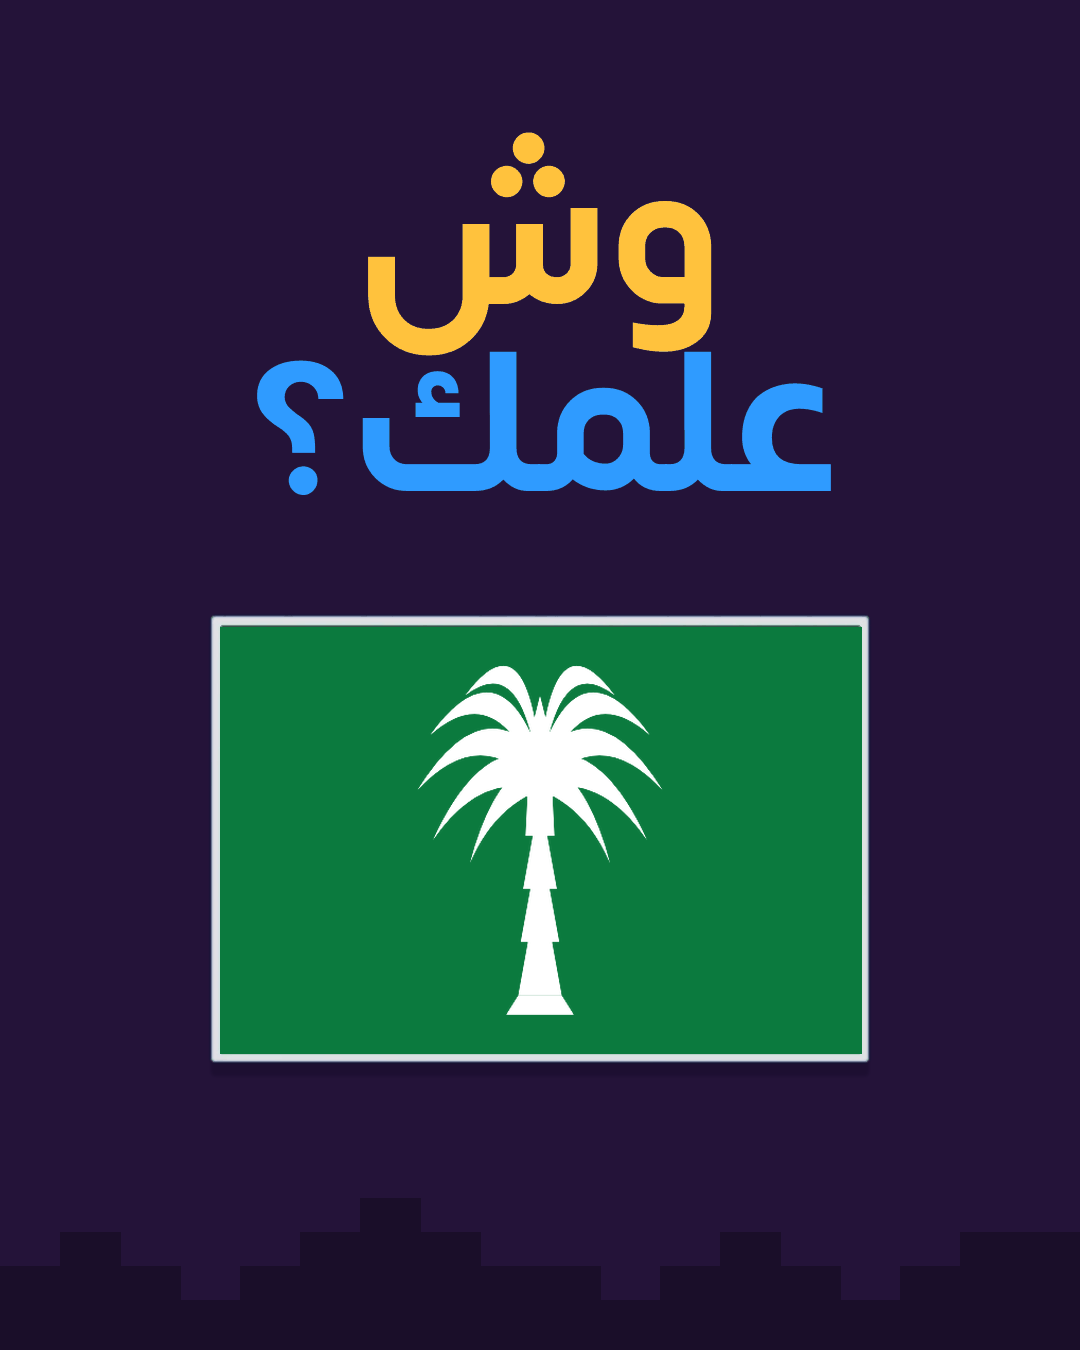
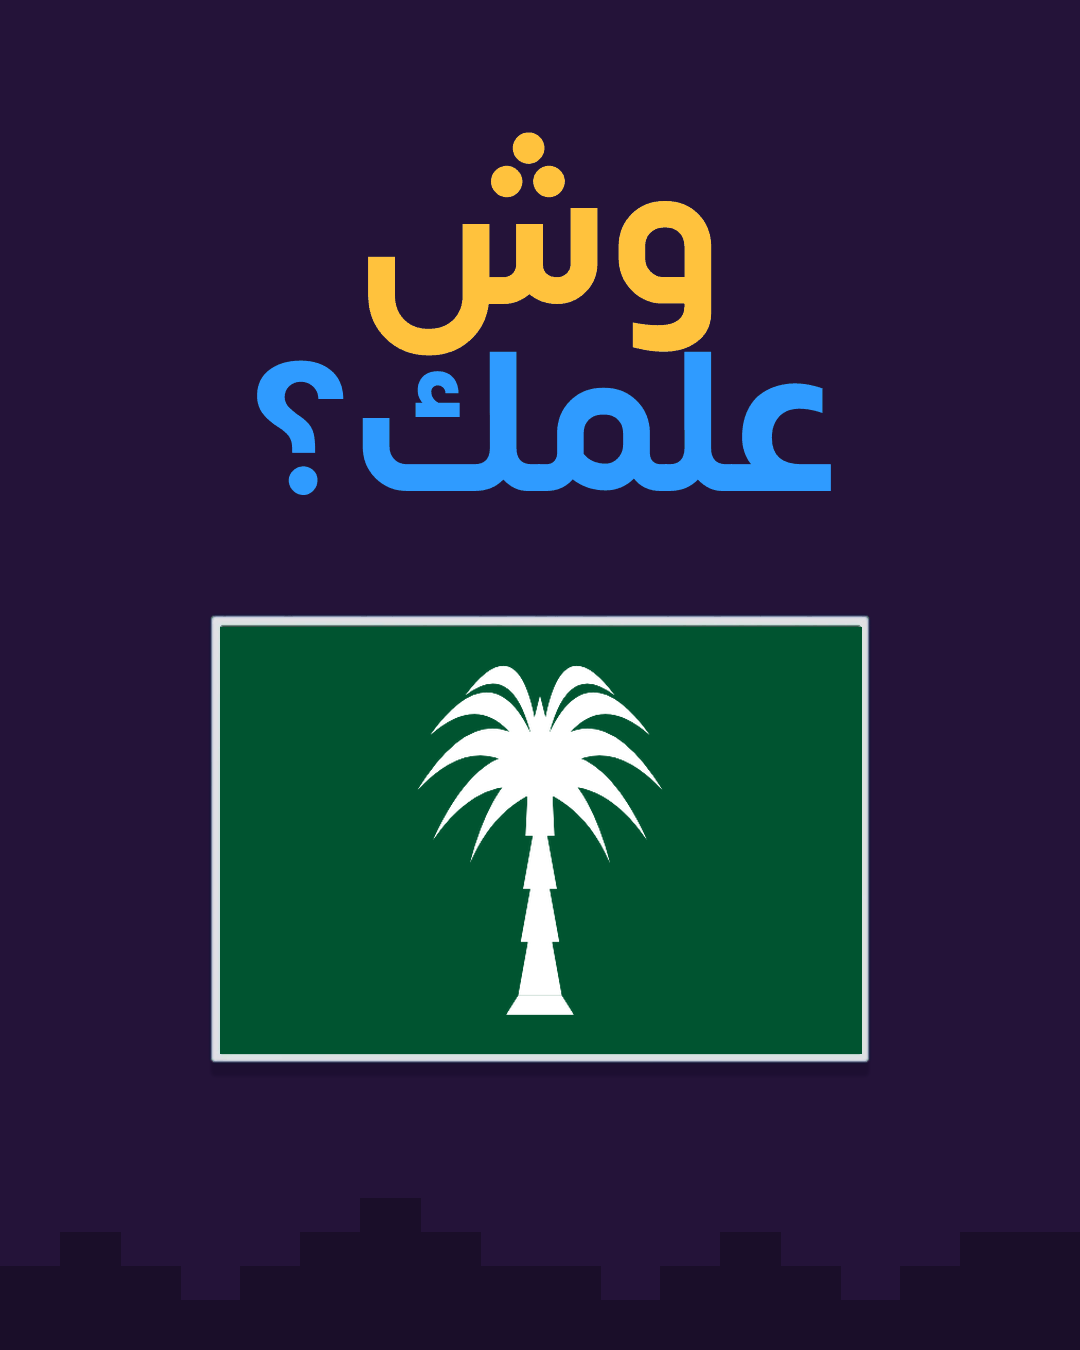
Use the flag green on the Saudi posters and category colour
Claude-Session: https://claude.ai/code/session_01NAqn41cVEfUrWyNoz4PQSR

Changed region(s): [[0.1833, 0.4667, 0.825, 0.7778]]

diff --git a/src/data/quizCards.ts b/src/data/quizCards.ts
@@ -10,7 +10,7 @@ export const QUIZ_LABELS: Record<QuizCategoryKey, string> = {
 
 export const QUIZ_COLORS: Record<QuizCategoryKey, string> = {
   seerah: "#0b7a3e",
-  saudi: "#1f6f5c",
+  saudi: "#005430",
   football: "#2f9bff",
   geography: "#c27700",
 };
